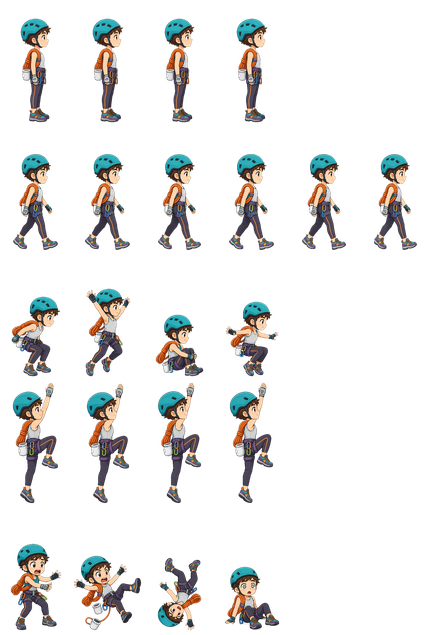
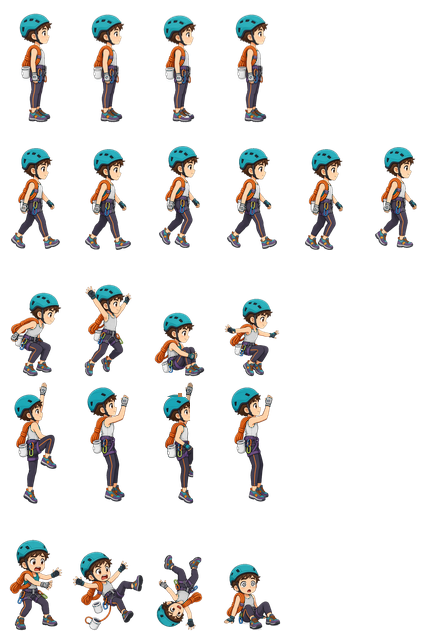
Gentler stamina/hunger, jump buffer+coyote, grab-hang, higher jump, less sticky walls, bigger touch controls (grab beside jump), MP colour/gender sync, spawn offsets, instant remote spawn, coloured name tags; v3 character sheets

diff --git a/characters/README.md b/characters/README.md
@@ -99,9 +99,29 @@
 
 - frame：**72×127 px**，6 欄 × 5 列（row0 idle 4、row1 walk 6、row2 jump 4、row3 climb 4、row4 fall 4；不足 6 格處透明）
 - anchor：**[36, 123]**（frame 內腳底中心點）；facesLeft = false（朝右，朝左請翻轉）
-- scale：**0.1593** = 18 / 113（站立 idle 角色像素高度中位數：阿岩 105 px、小攀 122 px（含馬尾）→ 繪出約 16.7 / 19.4 px，對應碰撞箱高 18 px）
+- scale：**0.1667** = 18 / 108（v3 站立 idle 角色像素高度中位數：阿岩 97–98 px、小攀 118–120 px（含馬尾）→ 繪出約 16.3 / 19.8 px，對應碰撞箱高 18 px）
 - 玩家色（順序固定）：red `#e8483b`、blue `#2f8fe0`、green `#3fb85a`、yellow `#f2b630`
 - fps：idle 6、walk 12、jump 8、climb 8、fall 8
 - 合成公式：`out = base × (1 − m) + base × color × m`（m = mask alpha/255）；Canvas 可用 offscreen 畫 mask → `globalCompositeOperation='multiply'` 填色 → `destination-in` 以 base alpha 裁切。
 - 安全帽固定青綠、不換色。上方 v1 的 `xiaopan_*`/`ayan_*` 舊檔保留僅供參考。
 - 重建：`python3 tools/build_v2.py`
+
+## v3 動畫優化（流暢版，規格與檔名不變）
+
+- walk：重新生成 6 格步行循環（左右腿交替、手臂擺動），並加上 0/+1/−1/0/+1/−1 px 上下起伏。
+- climb：重新生成 4 格，手部高低交替（前手高/後手高），身體加 0/−2/−1/−3 px 拉升位移；腿部變化仍有限。
+- idle：由單一良好站姿程式產生 4 格呼吸（上半身 0/1/2/1 px 壓縮，腳底固定）。
+- 尺度：每個動畫以安全帽寬度統一比例，同角色各動畫身高一致。
+- fall：小攀第 4 格已翻轉朝右；阿岩摔落格多為正面/倒立，無明顯左右向。
+- 預覽：`preview_female.gif`、`preview_male.gif`（紅色，idle→walk→climb，各 3 循環，3 倍放大，依 manifest fps）、`preview_v3.png`（上排小攀、下排阿岩：base, mask, red, blue, green, yellow）。
+- 備份：v2 舊檔在 `v2_backup/`；舊來源圖 `src/*_v1.jpg`。
+
+## v4 – climb rebuilt from single poses
+- Climb row (row 3) now comes from 4 separately generated single poses (`src/{xiaopan,ayan}_climb_f0..f3.jpg`; old strips kept as `*_climb_v2.jpg`): F0 near hand high + near knee raised, F1 transition (body up), F2 opposite leg phase (raised leg down, other foot up), F3 transition. dy offsets 0,-2,0,-2. Still 4 frames @ 8 fps; manifest unchanged.
+- Climb poses are taller (arm overhead), so climb uses its own fit cap: helmet ≈ 26 px vs ≈ 26–28 px on other rows (other rows were scaled ×0.9 so every frame fits the 72-px frame width). scale pinned at 0.1667.
+- Rebuilt base, masks, 8 coloured sheets, GIFs, preview_v3.png; base×mask×colour re-verified.
+
+## v5 – climb hand alternation (painted)
+- Build order: `tools/build_sprites.py` → `tools/fix_climb.py` → `tools/build_v2.py`.
+- `fix_climb.py` edits climb F2 (row 3, col 2) on both teal sheets. It removes the raised near arm, then pastes F0's raised hand/forearm 3 px further back, darkened 20%, *behind* the body, plus a painted forearm stub reaching down to the helmet. F2 now reads: far hand high, near hand low at the hip, far knee raised. The pasted glove is included in the mask.
+- Spec, manifest and scale (0.1667) are unchanged.
